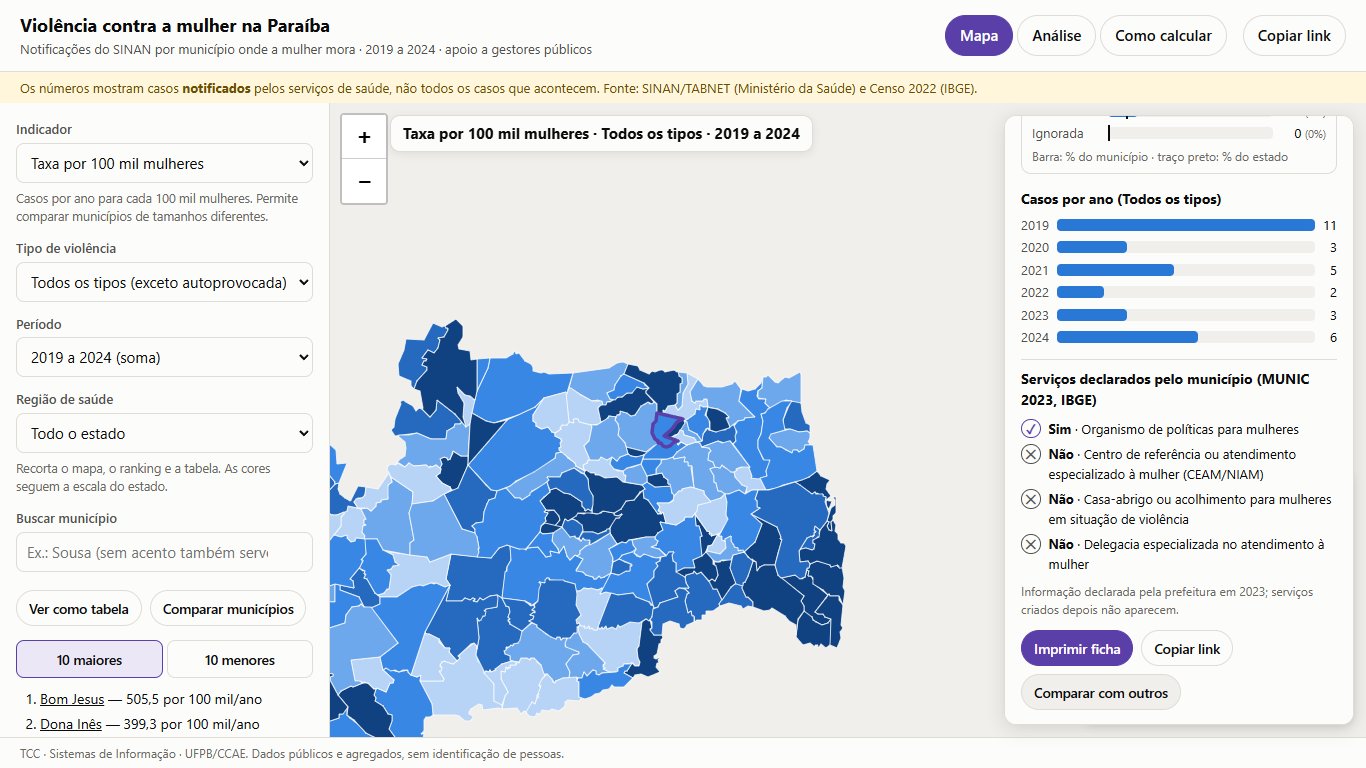
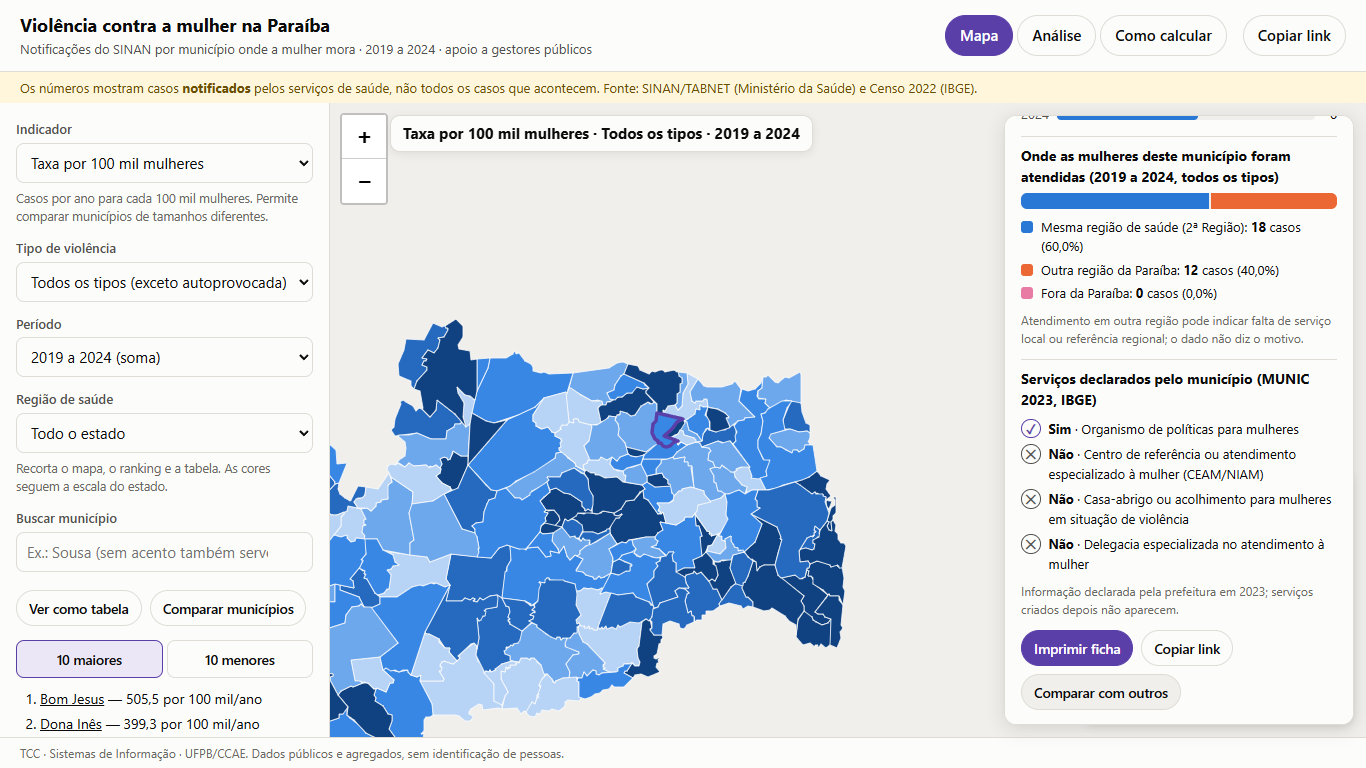
Documentação: página do ramo para o orientador, bases candidatas e README

Changed region(s): [[0.7379, 0.125, 0.9839, 0.4688], [0.9531, 0.1562, 0.9839, 0.1875]]

diff --git a/README.md b/README.md
@@ -33,6 +33,7 @@ O banco é só local: a senha do Postgres no `atualizar.bat` serve apenas ao con
 |---|---|---|
 | Notificações de violência (mulheres, município de residência, 2019–2024, sem violência autoprovocada), por ano, tipo e faixa etária | SINAN/TABNET, Ministério da Saúde | 14/10 e 20/10/2026 |
 | Mulheres por município (denominador) e por faixa etária | IBGE, Censo 2022, SIDRA tabela 9514 (API) | 18/11/2026 |
+| Local de atendimento (contexto): residência × região de saúde de notificação | SINAN/TABNET, mesma base das notificações | 18/11/2026 |
 | Serviços declarados pelo município (contexto da ficha) | IBGE, MUNIC 2023, bloco "Política para Mulheres" e item de delegacia especializada | 18/11/2026 |
 | Nomes oficiais dos municípios | IBGE, API de localidades | 18/11/2026 |
 | Região e macrorregião de saúde | Ministério da Saúde/DATASUS, Base Territorial (jun/2026) | 18/11/2026 |
@@ -60,7 +61,7 @@ SELECT nome, casos, round(taxa_100mil_ano, 1) AS taxa, round(o_sobre_e, 2) AS oe
 FROM websig.vw_indicador_municipio_ano_tipo
 WHERE periodo = '2019-2024' AND tipo = 'total' ORDER BY o_sobre_e LIMIT 10;
 ```
-Views: `vw_indicador_municipio_ano_tipo` (município × período × tipo), `vw_indicador_estado`, `vw_indicador_regiao`, `vw_faixa_municipio` e `vw_faixa_estado` (taxa por faixa etária).
+Views: `vw_indicador_municipio_ano_tipo` (município × período × tipo), `vw_indicador_estado`, `vw_indicador_regiao`, `vw_faixa_municipio` e `vw_faixa_estado` (taxa por faixa etária), `vw_local_atendimento` e `vw_local_estado` (local de atendimento).
 
 ## O que o painel oferece
 
@@ -68,6 +69,7 @@ Views: `vw_indicador_municipio_ano_tipo` (município × período × tipo), `vw_i
 - Título do mapa com os filtros ativos; legenda com a média do estado (e da região, quando escolhida).
 - Ranking dos 10 maiores e dos 10 menores (nos menores entram só municípios com pelo menos 10 casos).
 - **Ficha do município:** os 5 indicadores comparados com o estado e com a região de saúde, série anual, tipos, faixa etária ("Faixa mais atingida" e botões **Casos | Taxa por 100 mil/ano**, com a taxa do estado como referência), aviso de poucos casos, link "como calcular" e **Imprimir ficha**.
+- **Onde as mulheres foram atendidas** (contexto, na ficha e na Análise): barra única de 100% com mesma região de saúde, outra região da Paraíba e fora da Paraíba, com número e %. % = casos atendidos na categoria ÷ casos do município × 100. Não é indicador e não diz o motivo.
 - **Serviços declarados pelo município (MUNIC 2023, IBGE):** organismo de políticas para mulheres, centro de referência, casa-abrigo e delegacia especializada, com ícone e texto (sim / não / sem dado). É contexto: não entra em nenhuma conta nem no mapa.
 - Comparar 2 ou 3 municípios; ver o mapa como tabela; baixar CSV (separador `;`, vírgula decimal, abre direto no Excel ou no Calc).
 - Endereço por tela e por município: `#mapa`, `#analise`, `#como-calcular`, `#mapa-<código IBGE>` (ex.: `#mapa-2516201` é Sousa), com o botão **Copiar link**.
@@ -77,9 +79,9 @@ Views: `vw_indicador_municipio_ano_tipo` (município × período × tipo), `vw_i
 |---|---|---|
 | ![Filtro por região de saúde](capturas/regiao_saude_filtro.png) | ![Ficha no celular](capturas/celular_claro_mapa_ficha.png) | ![Município com foco do teclado](capturas/mapa_foco_teclado.png) |
 
-| Faixa etária em taxa | Serviços declarados (MUNIC 2023) |
-|---|---|
-| ![Faixa etária como taxa por 100 mil](capturas/ficha_faixa_taxa.png) | ![Serviços declarados pelo município](capturas/ficha_rede_munic.png) |
+| Faixa etária em taxa | Serviços declarados (MUNIC 2023) | Onde foram atendidas |
+|---|---|---|
+| ![Faixa etária como taxa por 100 mil](capturas/ficha_faixa_taxa.png) | ![Serviços declarados pelo município](capturas/ficha_rede_munic.png) | ![Local de atendimento](capturas/ficha_local_atendimento.png) |
 
 | Análise | Como calcular | Tema escuro |
 |---|---|---|
@@ -90,7 +92,7 @@ A ficha impressa (botão **Imprimir ficha**) sai numa folha limpa, com fonte e d
 ## Testes
 
 - `testes/testar_dados.py`: totais, somas e coerência do banco, inclusive mulheres por faixa (soma 2.055.832 por município e no estado) e MUNIC igual ao bruto (só biblioteca padrão).
-- `testes/testar_front.py`: o painel nos dois modos de abertura (arquivo e servidor); taxa e O/E iguais à view em 6.244 combinações taxa das 16 regiões em 448 e taxa por faixa em 2.230; bloco MUNIC igual ao bruto em 10 municípios sorteados; links, ficha, impressão, comparação, CSV, filtro de região, teclado (inclusive no mapa), toque e telas em 1366, 1920 e 390 px, claro e escuro.
+- `testes/testar_front.py`: o painel nos dois modos de abertura (arquivo e servidor); taxa e O/E iguais à view em 6.244 combinações taxa das 16 regiões em 448 e taxa por faixa em 2.230; % do local de atendimento em 669; frase do estado; bloco MUNIC igual ao bruto em 10 municípios sorteados; links, ficha, impressão, comparação, CSV, filtro de região, teclado (inclusive no mapa), toque e telas em 1366, 1920 e 390 px, claro e escuro.
 - `testes/testar_usabilidade.py`: refaz as 5 tarefas do teste com usuários a partir da página inicial, conta as ações (todas com 1 ou 2) e confere contraste, daltonismo e celular em 320 px.
 - Os dois últimos aceitam `--navegador firefox` ou `--navegador webkit`.
 

diff --git a/docs/ramo_bases_contexto.md b/docs/ramo_bases_contexto.md
@@ -1,0 +1,56 @@
+# Ramo `bases-contexto`: o que ele acrescenta ao painel
+
+Proposta para avaliação do orientador (18/11/2026). O ramo está separado da versão principal (`main`) e só entra nela com aprovação. **Nenhum indicador novo**: o painel continua com os 5 (casos, taxa por 100 mil mulheres por ano, tipos, faixa etária, observado ÷ esperado). As três novidades refinam um indicador ou dão contexto, e todas podem ser recalculadas numa planilha.
+
+Link do ramo: https://github.com/AnaCAmim/TCC/tree/bases-contexto
+
+---
+
+## 1. Faixa etária em taxa (refina o indicador 4)
+
+A faixa etária, que antes era só contagem, ganha a opção **"Taxa por 100 mil/ano"**, na ficha e na Análise.
+
+- **Fórmula:** casos da faixa ÷ mulheres da faixa × 100.000 ÷ 6.
+- **Fonte do denominador:** Censo 2022 (IBGE, SIDRA 9514), com os grupos de idade somados nas mesmas faixas do SINAN. A carga confere 2.055.832 mulheres em cada município e no estado.
+- **O que mostra:** no estado, a taxa mais alta é a de **10 a 14 anos** (1.315 ÷ 138.805 × 100.000 ÷ 6 = **157,9**), embora 20 a 29 anos tenha mais casos (2.592; taxa 143,4).
+- **Cuidados exibidos:** a taxa do estado aparece como referência; faixas com menos de 10 casos levam o aviso "valor instável"; a faixa "Ignorada" fica sem taxa.
+
+![Ficha de Sousa com a faixa etária em taxa](../capturas/ficha_faixa_taxa.png)
+
+## 2. Serviços declarados pelo município (contexto)
+
+Novo bloco na ficha: **"Serviços declarados pelo município (MUNIC 2023, IBGE)"**. Mostra organismo de políticas para mulheres, centro de referência (CEAM/NIAM), casa-abrigo e delegacia especializada.
+
+- Cada item tem ícone e texto (Sim, Não ou **Sem dado**), exatamente como a prefeitura respondeu.
+- Nota fixa: "Informação declarada pela prefeitura em 2023; serviços criados depois não aparecem."
+- Não há mapa colorido nem comparação com a taxa: é só contexto para o gestor.
+
+![Bloco de serviços declarados na ficha](../capturas/ficha_rede_munic.png)
+
+## 3. Onde as mulheres foram atendidas (contexto)
+
+Novo bloco na ficha e na Análise: uma barra de 100% com o local da notificação em três categorias, **mesma região de saúde**, **outra região da Paraíba** e **fora da Paraíba**, com número e %.
+
+- **Fórmula:** casos atendidos na categoria ÷ casos do município × 100.
+- **No estado:** 91,2% foram atendidas na própria região de saúde, 7,6% em outra região da Paraíba e 1,2% fora do estado (122 casos). Exemplo, Sousa: 9 ÷ 15 × 100 = 60,0% na própria região.
+- **Os 122 "fora da Paraíba":** são mulheres que moram na Paraíba e foram notificadas por serviços de outros estados. Por isso a contagem por residência (10.344) é maior que a contagem por local de notificação (10.222).
+- **Cuidados exibidos:** nota fixa "Atendimento em outra região pode indicar falta de serviço local ou referência regional; o dado não diz o motivo", e aviso de valor instável abaixo de 10 casos.
+
+![Onde as mulheres de Sousa foram atendidas](../capturas/ficha_local_atendimento.png)
+
+---
+
+## O que NÃO foi acrescentado, e por quê
+
+| Base | Motivo |
+|---|---|
+| Óbitos de mulheres por agressão (SIM) | Ficou fora pela decisão de 18/11/2026 (só os 5 indicadores). Além disso, são 482 óbitos em 6 anos: a maioria dos municípios tem menos de 10 casos, número pequeno demais para comparar. |
+| Estabelecimentos de saúde (CNES) | Seria só uma contagem de UBS e hospitais, sem relação direta com o atendimento à violência; contar unidades não mede capacidade nem qualidade. |
+| Ligue 180 | Não há dado aberto por município: só um painel interativo do Ministério das Mulheres. O arquivo aberto do Ministério dos Direitos Humanos é do Disque 100, que é outro serviço. |
+| Medidas protetivas (CNJ) | Os dados são por comarca (uma comarca atende vários municípios), e a API pública estava instável no teste. Também medem a procura pela Justiça, não a violência. |
+
+Detalhes, fontes e testes de acesso: `docs/bases_candidatas.md`.
+
+## Como foi conferido
+
+Toda carga para se um total não bater: 10.344 casos, 223 municípios e 2.055.832 mulheres, também por faixa etária; as três categorias de local somam os casos por residência. Os testes automáticos comparam o painel com o banco nos três navegadores (Chrome, Firefox e WebKit): taxa por faixa, % do local de atendimento, frase do estado e o bloco MUNIC em 10 municípios sorteados.

diff --git a/docs/bases_candidatas.md b/docs/bases_candidatas.md
@@ -1,6 +1,6 @@
 # Bases candidatas para o painel: levantamento (18/11/2026)
 
-Levantamento feito **sem mudar nada no painel**. Atualização de 18/11/2026: a seção 1 (faixa etária) e a seção 3 (rede, MUNIC 2023) foram implementadas no ramo `bases-contexto`; a seção 2 (residência × notificação) continua só investigada (ver a explicação dos 122 abaixo). Regra do projeto: só os 5 indicadores (casos, taxa por 100 mil mulheres por ano, tipos, faixa etária, observado ÷ esperado), tudo explicável e recalculável numa planilha. Toda base abaixo precisaria da aprovação do orientador antes de entrar.
+Levantamento feito **sem mudar nada no painel**. Atualização de 18/11/2026: a seção 1 (faixa etária) e a seção 3 (rede, MUNIC 2023) foram implementadas no ramo `bases-contexto`; a seção 2 (residência × notificação) também foi implementada, no nível de região de saúde (ver a explicação dos 122 abaixo). Regra do projeto: só os 5 indicadores (casos, taxa por 100 mil mulheres por ano, tipos, faixa etária, observado ÷ esperado), tudo explicável e recalculável numa planilha. Toda base abaixo precisaria da aprovação do orientador antes de entrar.
 
 Cada acesso foi testado em 18/11/2026, e as amostras estão em `dados/brutos/amostras/`, descritas em `dados/brutos/FONTES.md`. "Sem dado" quer dizer que a fonte não informa, e não que o serviço não existe.
 
@@ -34,6 +34,7 @@ Cada acesso foi testado em 18/11/2026, e as amostras estão em `dados/brutos/amo
 | Teste | OK no nível de região. Amostra: 220 municípios, 10.222 notificações; **92,3% notificadas na própria região de saúde**. Faltam 122 em relação aos 10.344: são **residentes da PB notificadas em outro estado** (explicação abaixo) |
 | Como entraria | Na ficha: "x% das notificações de mulheres deste município foram feitas em outra região de saúde" (mais tarde, "em outro município"). |
 | Fórmula | % fora = notificações de residentes feitas fora do município (ou da região) ÷ total de notificações de residentes × 100 |
+| Situação | **Implementado no ramo `bases-contexto`** como contexto: tabela `notificacao_local` (mesma região de saúde / outra região da PB / fora da PB), views `vw_local_atendimento` e `vw_local_estado`, bloco "Onde as mulheres deste município foram atendidas" na ficha e na Análise. No estado: 9.436 (91,2%) na própria região, 786 (7,6%) em outra região da PB e 122 (1,2%) fora da PB, sobre os 10.344. Os 92,3% citados acima eram sobre os 10.222 notificados na PB |
 | Riscos de interpretação | Notificar fora não quer dizer que falta serviço: pode ser hospital de referência, trabalho ou preferência. A `violepb` inclui as paraibanas notificadas em outros estados (são os 122), mas o TABNET não mostra o município de notificação delas. Pelo TABNET, o nível municipal exigiria 223 consultas; os microdados exigem uma ferramenta fora da planilha |
 
 ### Diferença de 122 notificações (investigada em 18/11/2026)
